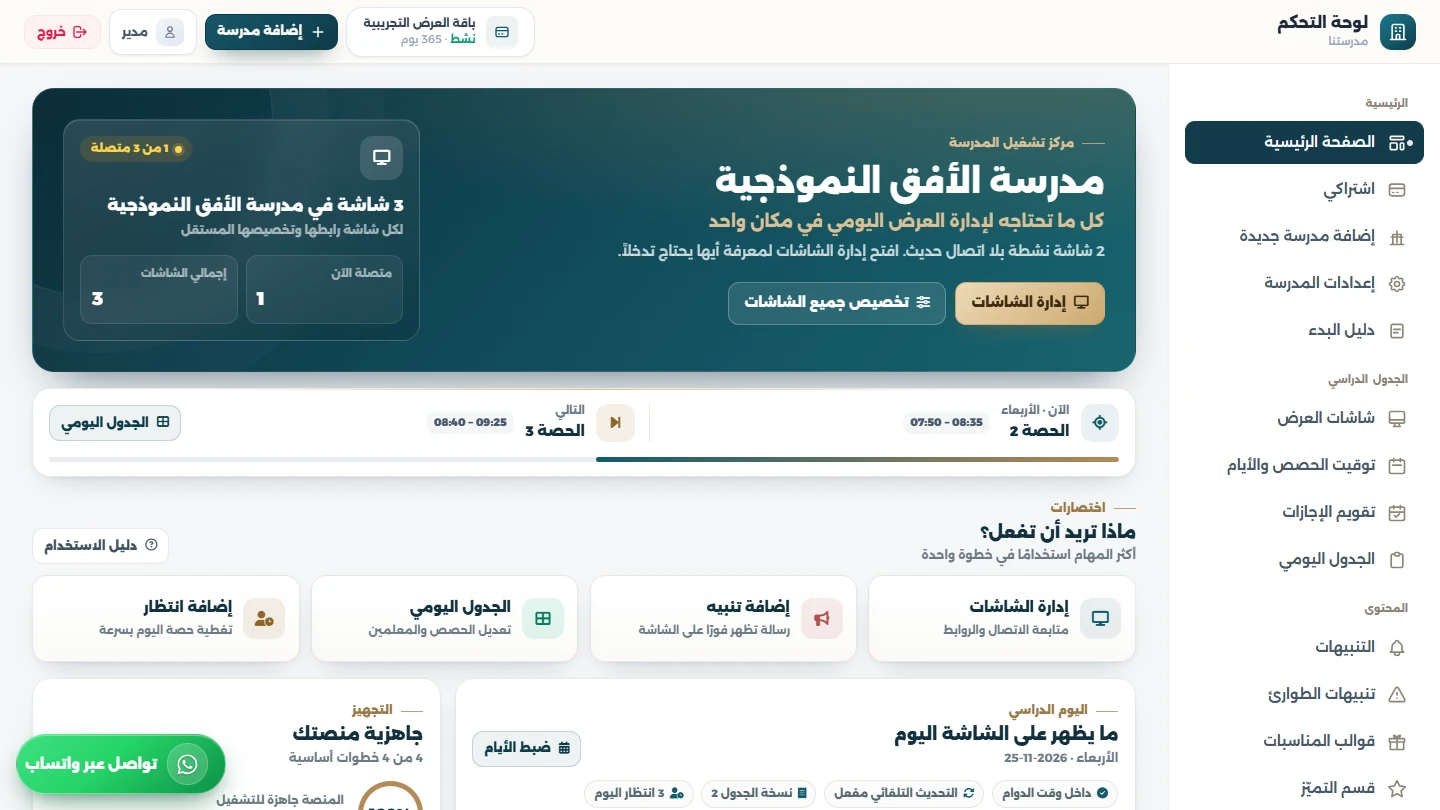
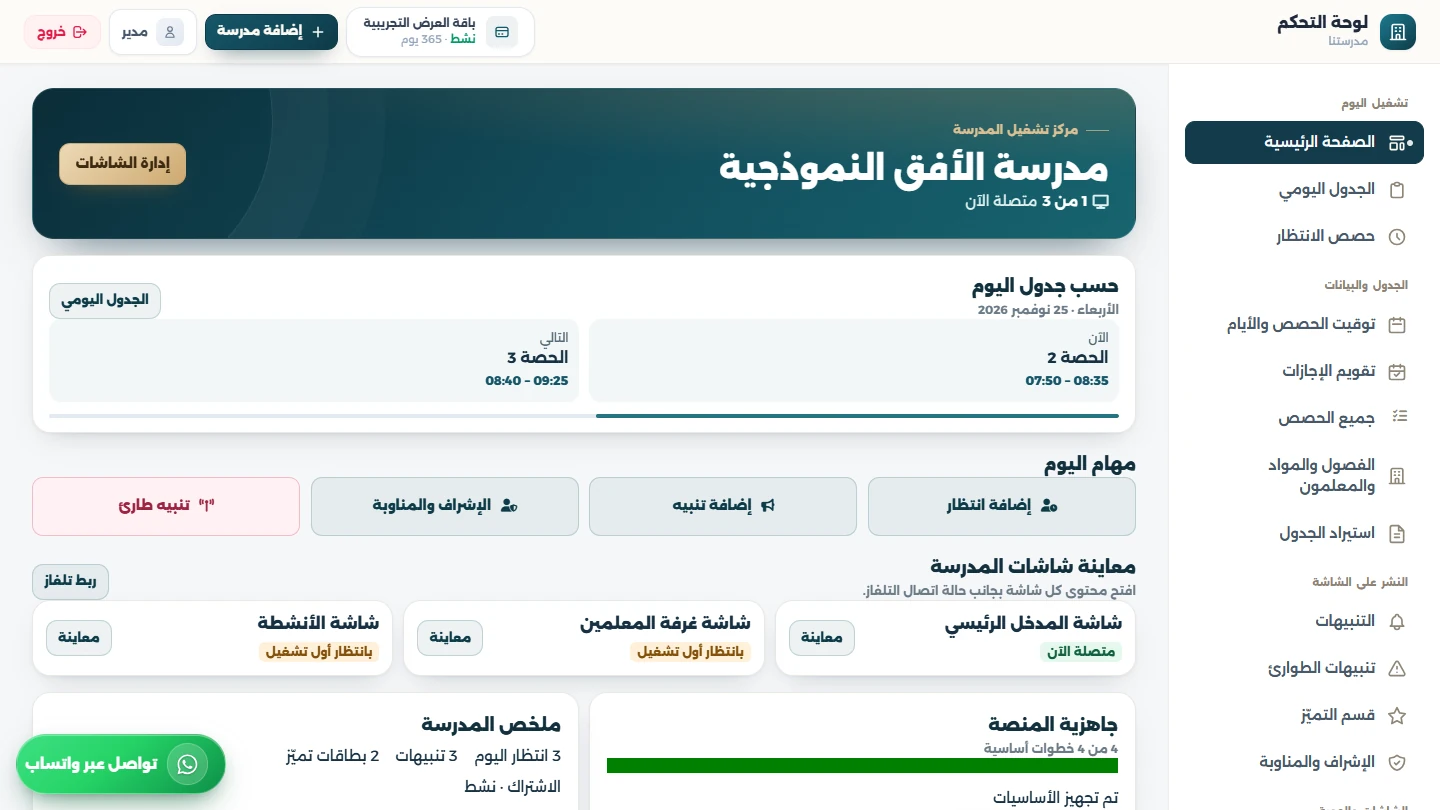
Verify the redesigned dashboard and refresh its landing preview

diff --git a/dashboard/tests.py b/dashboard/tests.py
@@ -1786,7 +1786,7 @@ class EmergencyAlertsAndExcelImportTests(TestCase):
             form.initial["expires_at"] - form.initial["starts_at"],
             timedelta(hours=24),
         )
-        self.assertContains(response, "الثيم يغيّر ألوان وخلفية وزخارف شاشة العرض")
+        self.assertContains(response, "يظهر الثيم طوال فترة التنبيه على الشاشات التي تعرض التنبيهات وتتبع المناسبات تلقائيًا")
 
     def test_occasion_theme_is_saved_and_exposed_to_display_snapshot(self):
         starts_at = timezone.now().replace(second=0, microsecond=0)
@@ -2807,8 +2807,13 @@ class MultiSchoolManagerTests(TestCase):
         response = self.client.get(reverse("dashboard:index"))
 
         self.assertEqual(response.status_code, 200)
-        self.assertContains(response, "2 شاشة في مدرسة مدفوعة")
-        self.assertContains(response, "تخصيص جميع الشاشات")
+        self.assertEqual(response.context["stats"]["screens_count"], 2)
+        self.assertEqual(
+            {card["name"] for card in response.context["screen_cards"]},
+            set(DisplayScreen.objects.filter(school=self.paid_school).values_list("name", flat=True)),
+        )
+        self.assertContains(response, "معاينة شاشة ثانية")
+        self.assertContains(response, reverse("dashboard:screen_list"))
 
 
 class AnnouncementScreenTargetingTests(TestCase):
